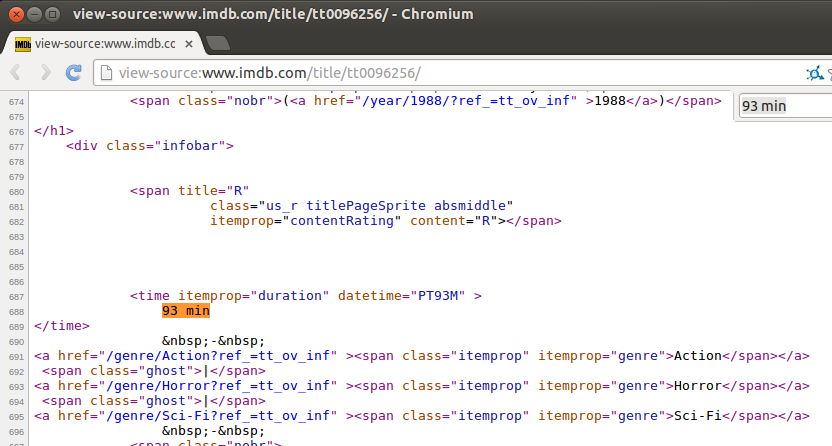
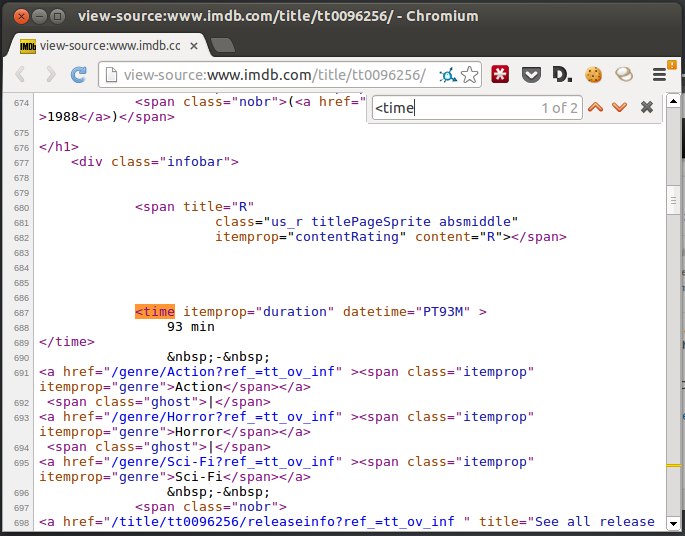
final ex of scraping

Changed region(s): [[0.0, 0.0, 1.0, 1.0], [0.1533, 0.3789, 0.8277, 0.5247], [0.981, 0.0, 1.0, 0.0583]]

diff --git a/index.html b/index.html
@@ -159,7 +159,7 @@
 					<section>
 					<h3>Beautiful Soup</h3>
 					<ul>
-					<li>Software package that downloads</li>
+					<li>Software package that downloads a webpage</li>
 					<li>It then organizes the HTML by tag</li>
 					<li><a href="http://www.crummy.com/software/BeautifulSoup/">(Link)</a></li>
 					</ul>
@@ -173,15 +173,19 @@
 				<section>
 					<section>
 					<h3>Example of scraping</h3><tim />
+					<p>Finding the length of a movie using IMDB</p>
 					</section>
 					<section>
 					<img src="images/they_live_1.png"/>
+					<p>Ah there it is!</p>
 					</section>
 					<section>
 					<img src="images/they_live_2.png"/>
+					<p>Ctrl + U to view source, then try to search for it</p>
 					</section>
 					<section>
 					<img src="images/they_live_3.png"/>
+					<p>Not fun</p>
 					</section>
 				</section>
 
